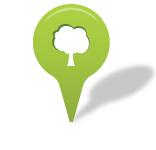
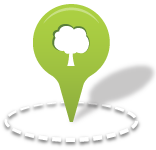
New marker, plus animation for #741

Changed region(s): [[0.0, 0.6667, 0.8974, 0.9867]]

diff --git a/opentreemap/treemap/css/sass/partials/_map.scss b/opentreemap/treemap/css/sass/partials/_map.scss
@@ -69,6 +69,27 @@
     }
 }
 
+@keyframes pulse {
+    0% {opacity: 1;}
+    30% {opacity: 0.5;}
+    60% {opacity: 1;}
+}
+@-webkit-keyframes pulse {
+    0% {opacity: 1;}
+    30% {opacity: 0.5;}
+    60% {opacity: 1;}
+}
+
+.leaflet-marker-icon {
+
+    &.animated {
+        -webkit-animation: pulse 2s infinite;
+        -moz-animation: pulse 2s infinite;
+        -o-animation: pulse 2s infinite;
+        animation: pulse 2s infinite;
+    }
+}
+
 .leaflet-popup-close-button {
     margin-top: 6px;
     margin-right: 4px;
